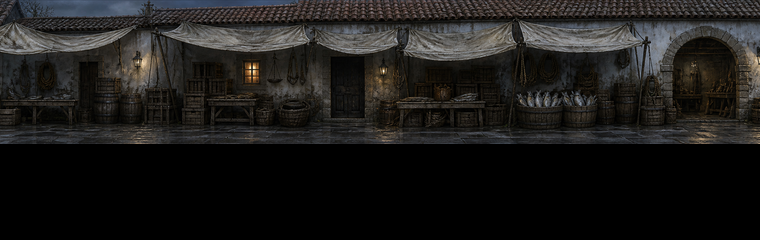
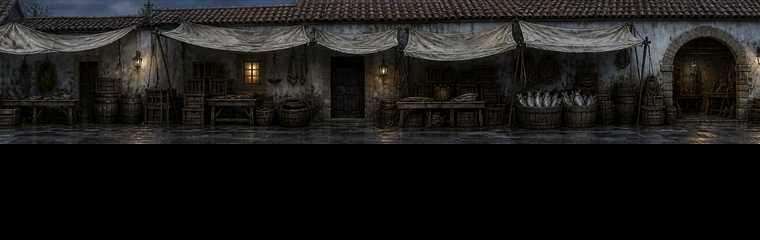
exp(#838): authored floor height, and put the plates through a PS1 pipeline
Floor height now varies along a lane. The lane stays strictly
one-dimensional -- a profile changes where feet are DRAWN, never what they
can reach -- so a pub with a counter by the door, a short flight of steps
and a lower room full of tables is authored as three control points and
crossed by walking. Control points are world units rather than plate pixels
on purpose: a real 3D scene has a floor at a world height, so the profile
describes it instead of fudging picture space. NPCs stand on the floor under
them, and the bounds overlay draws the floor as a line.

Plates now go through the console's actual picture pipeline rather than an
imitation of its output: a DCT codec with half-resolution chroma (MDEC's
close cousin) and then a 15-bit framebuffer quantise with an ordered dither,
in that order. That is where the ringing around lintels and the crosshatch
in flat plaster come from. Applied to the world strip only, since the dock
band below it is a hard black the DCT would smear. All ten plates were
re-derived from the cached raws, so this cost no generation calls.

Also asserts the substitution seam: a lane with no `preRendered` block still
initialises, still publishes an actor root and still answers its doorways,
because the flat path is selected by data and everything else is shared.

diff --git a/tools/towngen/ps1_filter.py b/tools/towngen/ps1_filter.py
@@ -1,0 +1,108 @@
+"""Put a plate through the PlayStation's actual picture pipeline.
+
+A pre-rendered PS1 background did not merely look low-resolution. It was a
+still frame that had been through two lossy stages, and both of them left
+marks people recognise even when they cannot name them:
+
+1. **MDEC.** Backgrounds shipped compressed with the console's motion decoder,
+   which is a DCT codec very close to JPEG: YCbCr, chroma at half resolution,
+   quantised 8x8 blocks. That is where the ringing around lintels and window
+   frames comes from, and the faint blockiness in flat plaster.
+
+2. **A 15-bit framebuffer.** The console drew in RGB555 - 32 levels per
+   channel instead of 256 - so smooth things banded. Studios hid the banding
+   by dithering before the truncation, which is why PS1 skies have that fine
+   crosshatch in them rather than clean steps.
+
+So the honest way to get the look is to do those two things in that order,
+rather than to blur the image and reduce its palette. Everything here is a
+local pixel operation and costs nothing; plates can be re-processed from the
+cached raws as often as the look needs tuning.
+"""
+
+import io
+
+from PIL import Image
+
+# The 4x4 ordered matrix, normalised to [0,1). Bayer is what the hardware and
+# the era's tooling used; a random or blue-noise dither reads as film grain
+# rather than as a console.
+BAYER_4 = [
+    [0, 8, 2, 10],
+    [12, 4, 14, 6],
+    [3, 11, 1, 9],
+    [15, 7, 13, 5],
+]
+
+
+def mdec(image, quality=50):
+    """Re-encode through a DCT codec with half-resolution chroma.
+
+    Pillow's JPEG encoder is a close enough stand-in for MDEC: the same
+    transform, the same subsampling, the same class of artefact. Quality is
+    the one dial worth touching - lower ruins the plaster, higher loses the
+    ringing that makes it read as compressed at all.
+    """
+    buffer = io.BytesIO()
+    image.convert("RGB").save(buffer, "JPEG", quality=quality, subsampling=2,
+                              optimize=False)
+    buffer.seek(0)
+    return Image.open(buffer).convert("RGB")
+
+
+def rgb555(image, dither=1.0):
+    """Quantise to 15-bit colour with an ordered dither, as the framebuffer did.
+
+    `dither` scales the threshold: 1.0 spreads a full quantisation step, which
+    is the correct amount to turn a hard band into a crosshatch. 0 truncates
+    and bands, which is also period-accurate for studios that did not bother.
+    """
+    source = image.convert("RGB")
+    width, height = source.size
+    pixels = source.load()
+    out = Image.new("RGB", (width, height))
+    target = out.load()
+    step = 8  # 256 levels down to 32
+    for y in range(height):
+        row = BAYER_4[y & 3]
+        for x in range(width):
+            bias = (row[x & 3] / 16.0 - 0.5) * step * dither
+            r, g, b = pixels[x, y]
+            values = []
+            for channel in (r, g, b):
+                v = channel + bias
+                v = 0 if v < 0 else (255 if v > 255 else v)
+                level = int(v / step)
+                level = 31 if level > 31 else level
+                # Expand back the way the hardware did, so white stays white.
+                values.append((level << 3) | (level >> 2))
+            target[x, y] = tuple(values)
+    return out
+
+
+def apply(image, quality=50, dither=0.5):
+    """The full chain, in the order the console applied it."""
+    return rgb555(mdec(image, quality=quality), dither=dither)
+
+
+def main():
+    import argparse
+    import os
+
+    parser = argparse.ArgumentParser(description=__doc__)
+    parser.add_argument("paths", nargs="+")
+    parser.add_argument("--quality", type=int, default=50)
+    parser.add_argument("--dither", type=float, default=0.5)
+    parser.add_argument("--suffix", default="")
+    args = parser.parse_args()
+    for path in args.paths:
+        with Image.open(path) as source:
+            result = apply(source, quality=args.quality, dither=args.dither)
+        root, extension = os.path.splitext(path)
+        result.save(root + args.suffix + extension)
+        print("PS1 %-40s q=%d dither=%.2f" % (os.path.basename(path),
+                                              args.quality, args.dither))
+
+
+if __name__ == "__main__":
+    main()

diff --git a/tools/towngen/build_town.py b/tools/towngen/build_town.py
@@ -69,6 +69,25 @@ def lane_of(plate):
     }
 
 
+def ground_profile(plate, authored):
+    """Author a floor in PLATE PIXELS; emit it in world units.
+
+    An artist reads a step off the picture -- "the counter is 48 pixels above
+    the tables" -- so that is how it is written here. What ships is world
+    height, because a 3D scene substituted for the plate has a floor at a
+    world height and the profile should describe it rather than the picture.
+
+    `authored` is [(pixel_x, pixels_above_base), ...] running west to east.
+    Between two points the floor is a straight ramp, so the distance between
+    them IS the length of the steps or the slope.
+    """
+    if not authored:
+        return None
+    return [{"y": lane_y_for(plate, pixel_x),
+             "z": round(GROUND_Z + rise / PIXELS_PER_Y, 4)}
+            for pixel_x, rise in authored]
+
+
 def lane_y_for(plate, pixel_x):
     """Plate pixel x -> lane y, for the plate's own width."""
     lane = lane_of(plate)
@@ -259,6 +278,15 @@ def build_environment(key, screen):
         Image.new("RGBA", (lane["width"], NATIVE_H), (0, 0, 0, 0)).save(empty)
 
 
+def lane_block(screen, lane):
+    block = {"minY": lane["minY"], "maxY": lane["maxY"], "depthX": DEPTH_X,
+             "groundZ": GROUND_Z, "speed": WALK_SPEED}
+    profile = ground_profile(screen["plate"], screen.get("ground"))
+    if profile:
+        block["groundProfile"] = profile
+    return block
+
+
 def build_map(key, screen, map1):
     lane = lane_of(screen["plate"])
     plate = screen["plate"]
@@ -327,8 +355,7 @@ def build_map(key, screen, map1):
             "provider": "bounded_lane",
             "environmentPackage": "assets/environments/st_maria_town/%s/environment.json" % key,
             "spawnAnchor": "spawn_player",
-            "lane": {"minY": lane["minY"], "maxY": lane["maxY"], "depthX": DEPTH_X,
-                     "groundZ": GROUND_Z, "speed": WALK_SPEED},
+            "lane": lane_block(screen, lane),
             "blockedRanges": [],
             "camera": {
                 "profile": "town_sideview",

diff --git a/tools/towngen/generate_plates.py b/tools/towngen/generate_plates.py
@@ -27,6 +27,8 @@ import urllib.request
 
 from PIL import Image
 
+import ps1_filter
+
 MODEL = "gpt-image-2"
 NATIVE_H = 240
 # The persistent dock owns y 144..240, so the world the player sees is 144 tall.
@@ -34,6 +36,12 @@ WORLD_H = 144
 OUT_DIR = os.path.join("projects", "hichaukitoden-game", "assets",
                        "environments", "st_maria_town", "plates")
 RAW_DIR = os.path.join("out", "towngen", "raw")
+
+# MDEC quality and framebuffer dither. Chosen by looking: below about 40 the
+# plaster goes blotchy and colours shift, above about 60 the ringing that
+# makes it read as compressed at all disappears.
+PS1_QUALITY = 50
+PS1_DITHER = 0.5
 
 # Authored plate widths, in native pixels at 144 tall. A Classic window is 256
 # wide, so these run from roughly 3.4 screens of street down to a single room.
@@ -176,8 +184,13 @@ def to_plate(band, width, anchor="center"):
     else:
         left = (band.width - source_width) // 2
     cropped = band.crop((left, 0, left + source_width, band.height))
+    world = cropped.resize((width, WORLD_H), Image.LANCZOS)
+    # The console's picture pipeline goes on last, and only over the world
+    # strip: the dock band below it is a hard black the DCT would smear into
+    # the ground line.
+    world = ps1_filter.apply(world, quality=PS1_QUALITY, dither=PS1_DITHER)
     plate = Image.new("RGB", (width, NATIVE_H), (0, 0, 0))
-    plate.paste(cropped.resize((width, WORLD_H), Image.LANCZOS), (0, 0))
+    plate.paste(world, (0, 0))
     return plate
 
 
